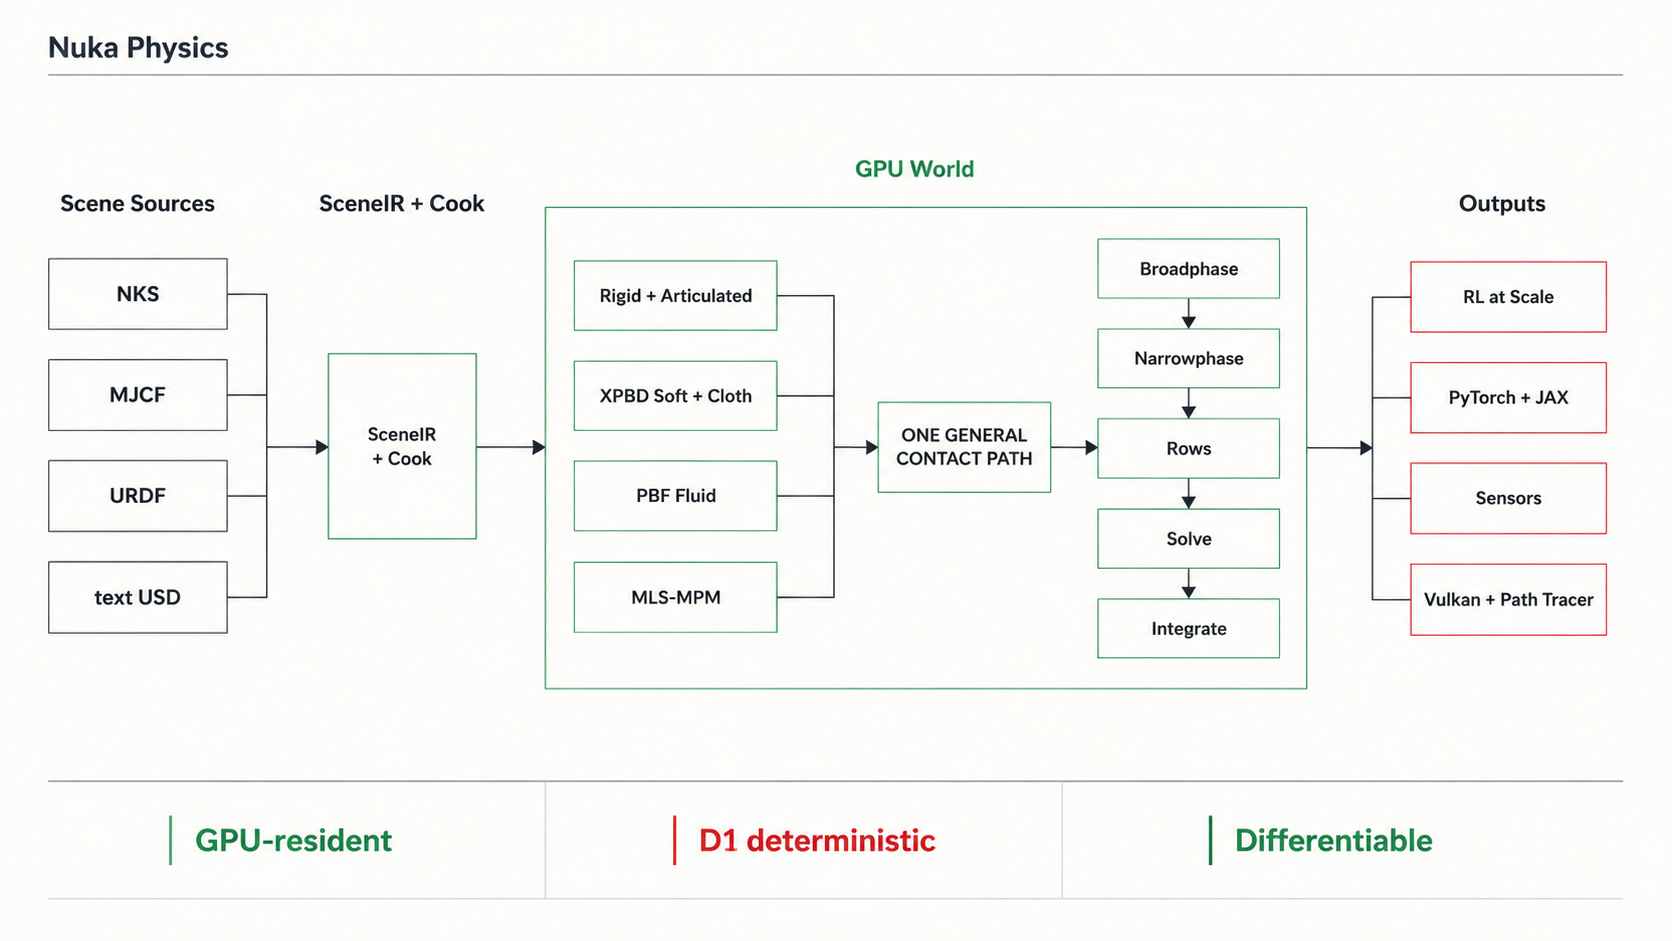
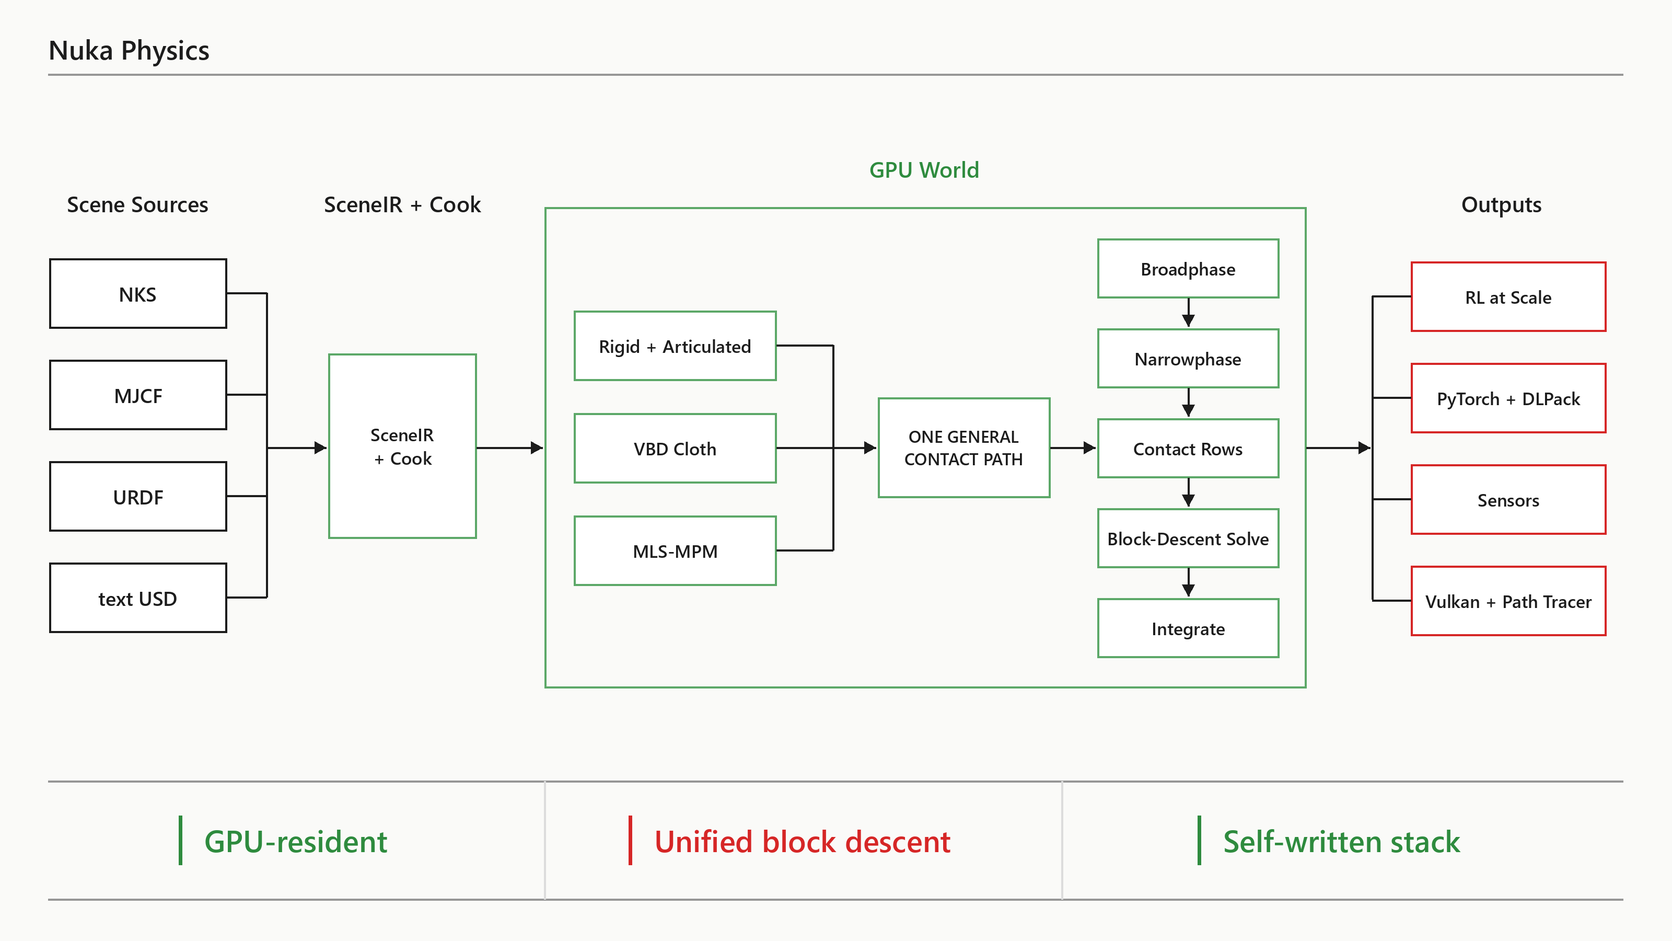
Rewrite the README and docs for the UABD-only stack with a new architecture figure, capabilities and quick start, dropping determinism and differentiable claims [skip ci]

diff --git a/docs/concepts/sensors.md b/docs/concepts/sensors.md
@@ -39,7 +39,7 @@ stamp = world.state_sensor_stamp(imu, env=0)
 
 IMU acquisition integrates velocity changes over physical substeps and subtracts gravity. Free fall therefore gives zero specific force at the center of mass; supported rest measures the opposing gravity vector. Off-center mounts include angular acceleration and centripetal acceleration. Solved contact impulses are included. Each substep uses the midpoint sensor orientation; high angular rates still require adequate integration resolution. Position and velocity sensors acquire the endpoint state.
 
-Contact transducers sum normal and friction impulses on all collision shapes belonging to the mounting body or link. Dynamic bodies and static force plates use the same contact rows, including contacts with XPBD particles and MLS-MPM grid endpoints. Torque includes the lever arm to `local_offset`; there is no spatial patch filter. A body mount must select the owning body, not an extra collision-shape proxy.
+Contact transducers sum normal and friction impulses on all collision shapes belonging to the mounting body or link. Dynamic bodies and static force plates use the same contact rows, including contacts with VBD particles and MLS-MPM grid endpoints. Torque includes the lever arm to `local_offset`; there is no spatial patch filter. A body mount must select the owning body, not an extra collision-shape proxy.
 
 `FORCE_TORQUE` measures the load transmitted from the parent into the selected link and its descendants. It uses live spatial inertias, changes in linear and spin momentum, gravity, and solved external contacts, then accumulates child loads through the articulation tree. Static weight, actuator effort transmitted to links, joint limits, friction and contact reactions contribute to this balance. Off-center centers of mass and rotated inertia frames are included. A fixed articulation root measures support from the world; free bodies and floating roots have no parent interface and are rejected. Place the sensor on a supported articulation link, such as a wrist or fixed tool attachment.
 
@@ -70,7 +70,7 @@ MJCF accelerometer/gyro, joint position/velocity, frame pose, velocimeter, force
 
 ## Touch volumes and tactile taxels
 
-Touch and tactile sensors read the actual impulses from the common contact solver, including friction and contacts with XPBD and MLS-MPM. Their mounts select an owning rigid body or articulation link. The spatial mask selects contacts on that mount; it does not create contacts or add stiffness to the simulation. A deforming particle surface cannot itself carry these rigidly mounted sensors.
+Touch and tactile sensors read the actual impulses from the common contact solver, including friction and contacts with VBD cloth and MLS-MPM. Their mounts select an owning rigid body or articulation link. The spatial mask selects contacts on that mount; it does not create contacts or add stiffness to the simulation. A deforming particle surface cannot itself carry these rigidly mounted sensors.
 
 `TOUCH` sums positive normal forces. A contact contributes when the ray from its contact point along the mounting body's outward contact normal intersects the sensing volume. This follows MuJoCo's touch-region convention, including projection of soft contacts into a site. Sphere, box, ellipsoid, capsule and cylinder regions are supported. Box and ellipsoid `size` contains three half-axes; sphere uses `(radius, 0, 0)`; capsule and cylinder use `(radius, half_height, 0)` along local Z.
 
@@ -159,7 +159,7 @@ Observation views retain their addresses across configuration, acquisition, rese
 
 ## Cameras and lidar
 
-Camera and lidar attachment APIs use the same scene geometry and ray traversal. Articulated links, rigid bodies, and fixed-topology particle surfaces are visible: XPBD cloth and tetrahedral soft bodies update from each environment's live particle positions before tracing. A scene containing only one surface or one rigid instance is supported.
+Camera and lidar attachment APIs use the same scene geometry and ray traversal. Articulated links, rigid bodies, and fixed-topology particle surfaces are visible: VBD cloth and tetrahedral soft bodies update from each environment's live particle positions before tracing. A scene containing only one surface or one rigid instance is supported.
 
 Use `nuka.SensorMount.WORLD.value` for a fixed camera or lidar: `local_offset` is its world pose and `mount_index` is ignored. This also works in particle-only scenes without a rigid body or articulation. NKS sensor records use `"mount": "world"`. Mounted state sensors continue to require a body or articulation link.
 
@@ -167,7 +167,7 @@ Particle surfaces retain their authored material and render skin. `skin_smooth_i
 
 Camera depth is distance along the center ray, in meters, rather than optical-axis Z depth. Normal, albedo and primitive ID also use that center ray; color integrates the configured shading samples. Lidar range uses its beam ray, with the configured maximum range for a miss. Equal camera and lidar rays therefore measure the same surface distance. Monte Carlo color samples depend on the global camera index as well as the configured seed; comparing a batched tile with a standalone camera requires matching those sample indices.
 
-Image and range observations are ideal unless their response model is enabled. MLS-MPM density surfaces, individual grains and PBF fluid surfaces are not yet included in camera/lidar rendering.
+Image and range observations are ideal unless their response model is enabled. MLS-MPM density surfaces and individual grains are not yet included in camera/lidar rendering.
 
 ### Electronic image formation
 

diff --git a/README.md b/README.md
@@ -8,8 +8,8 @@
 <h1 align="center">Nuka-Physics</h1>
 
 <p align="center">
-  <strong>GPU-resident, bit-deterministic, differentiable CUDA physics.</strong><br>
-  One block-descent solver for articulated robots, rigid bodies, VBD cloth, and MLS-MPM continua.
+  <strong>GPU-resident CUDA physics for robot learning.</strong><br>
+  One block-descent solver for articulated robots, rigid bodies, VBD cloth, and MLS-MPM solids.
 </p>
 
 <p align="center">
@@ -78,7 +78,7 @@
 <td width="50%" align="center" valign="top">
   <a href="https://github.com/kry4r/Nuka-Physics/raw/master/docs/media/jelly_ball_drop.mp4"><img src="docs/media/jelly_ball_drop.gif" width="100%" alt="MLS-MPM elastic jelly ball dropping and rebounding"></a>
   <br><b>Elastic Jelly</b>
-  <br>Deterministic MLS-MPM elasticity
+  <br>MLS-MPM elasticity
   <br><a href="https://github.com/kry4r/Nuka-Physics/raw/master/docs/media/jelly_ball_drop.mp4">Full video</a>
 </td>
 </tr>
@@ -103,42 +103,38 @@ Material demos load the shared [Nuka Dynamics Lab assets](docs/nuka-stage.md), w
 ## Why Nuka
 
 - **GPU-resident at scale.** One cooked world template drives thousands of independent environments on one GPU.
-- **D1 deterministic.** Fixed reduction order and no floating-point atomics produce byte-for-byte repeatable runs.
-- **Differentiable.** Analytical reverse-mode adjoints cover rigid and articulated dynamics with PyTorch and JAX interop.
 - **One solver.** Robot, rigid, cloth, and MLS-MPM contacts all run through one unified block-descent (UABD) solve.
 - **Self-written stack.** CUDA physics, importers, Vulkan rendering, and a CUDA path tracer, with no external physics or rendering SDK.
 
 ## Architecture
 
 <p align="center">
-  <img src="docs/media/nuka-architecture.png" width="100%" alt="Nuka Physics architecture: scene sources compile into a GPU-resident world, flow through one general contact path, and feed learning, sensors, and rendering">
+  <img src="docs/media/nuka-architecture.png" width="100%" alt="Nuka Physics architecture: scene sources cook into a GPU world whose rigid, VBD cloth and MLS-MPM systems share one block-descent contact solve">
 </p>
 
 | Layer | Core modules | Responsibility |
 | --- | --- | --- |
 | Authoring | `scene`, `import` | NKS, MJCF, URDF, and text-USD → SceneIR → cooked model |
-| Simulation | `nk`, `collision`, `constraint` | GPU world, broadphase, narrowphase, universal rows, block-descent solve |
-| Systems | `diffsim`, `sensor`, `codegen` | Reverse-mode adjoint, sensor queries, generated forward/adjoint kernels |
-| Platform | `phi`, `render`, `rt` | CUDA backend, Vulkan raster, CUDA path tracer |
+| Simulation | `nk`, `collision`, `constraint` | GPU world, broadphase, narrowphase, contact rows, block-descent solve |
+| Platform | `phi`, `sensor`, `render`, `rt` | CUDA backend, sensors, Vulkan raster, CUDA path tracer |
 
 ## Capabilities
 
 | System | Status |
 | --- | --- |
 | Rigid + articulated dynamics (Featherstone / ABA) | Production |
-| General contact + terrain / heightfields | Production |
+| Contact, terrain, and heightfields | Production |
 | Unified block-descent contact solve (UABD) | Production |
-| VBD cloth | Functional |
-| MLS-MPM elastic and elastoplastic continuum | Functional |
-| Two-way rigid / articulation / MLS-MPM / VBD cloth coupling | [Functional](docs/concepts/coupling.md) |
-| Independent observations, calibration and stochastic error | [Scalar field models](docs/concepts/sensors.md) |
-| Differentiable rigid + articulated simulation | Functional, contact-free |
-| Batched RL, PyTorch, JAX, DLPack | Functional |
+| VBD cloth and cables | Functional |
+| MLS-MPM elastic and elastoplastic solids | Functional |
+| Two-way robot / rigid / cloth / MLS-MPM coupling | [Functional](docs/concepts/coupling.md) |
+| Sensors with calibration and noise models | [Functional](docs/concepts/sensors.md) |
+| Batched RL with PyTorch and DLPack | Functional |
 | Vulkan raster + CUDA path tracing | Functional |
 
 ## Quick Start
 
-Linux, CUDA 12.8, g++-10, and a CUDA-capable GPU are required.
+Requires Linux, CUDA 12.8, g++-10, CMake 3.20+, Python 3.10+, and an NVIDIA GPU.
 
 ```bash
 export CC=gcc-10 CXX=g++-10
@@ -150,36 +146,28 @@ cmake --build build-cuda128 -j
 pip install -e python
 ```
 
-```bash
-# Train Go2 locomotion across 4096 environments
-CUDA_VISIBLE_DEVICES=0 python examples/training/train_go2_ppo.py --num_actors 4096
-```
-
-Differentiable rollout:
+Step 4096 Go2 environments from PyTorch:
 
 ```python
 import torch
 import nuka
-from nuka.autograd import differentiable_rollout
 
 with nuka.Device.create(0) as device:
     world = nuka.World.create_from_scene(
-        device, "examples/scenes/go2_system_id.usda", 1
+        device, "examples/scenes/go2_locomotion.usda", env_count=4096
     )
-    tape = nuka.Tape.create(world, checkpoint_interval=3)
-    mass = torch.nn.Parameter(torch.tensor([0.9], device="cuda"))
-    actions = torch.zeros(30, world.base_link_count - 1, device="cuda")
-    obs = differentiable_rollout(
-        world,
-        tape,
-        actions,
-        params=mass,
-        param_link_indices=[2],
-        obs="qdot",
-    )
-    obs.square().mean().backward()
-    tape.destroy()
+    q = torch.from_dlpack(world.buffer_view(nuka.JOINT_POSITION))
+    target = torch.from_dlpack(world.buffer_view(nuka.DRIVE_TARGET))
+    target[:, 1:].copy_(q[:, 1:])
+    world.step()
+    nuka.sync()
     world.destroy()
+```
+
+Train Go2 locomotion (needs `rl_games==1.6.5`), or run the [material demos](examples/demo/README.md):
+
+```bash
+CUDA_VISIBLE_DEVICES=0 python examples/training/train_go2_ppo.py --num_actors 4096
 ```
 
 ## Documentation

diff --git a/docs/concepts/coupling.md b/docs/concepts/coupling.md
@@ -1,17 +1,17 @@
 # Coupled physics
 
-Rigid bodies, articulations, MLS-MPM and XPBD exchange contact impulses through the same constraint rows. Dynamic endpoints contribute their finite mass and receive the opposite reaction; pinned vertices and static colliders act as supports.
+Rigid bodies, articulations, MLS-MPM and VBD cloth exchange contact impulses through the same constraint rows. Dynamic endpoints contribute their finite mass and receive the opposite reaction; pinned vertices and static colliders act as supports.
 
 | Pair | Contact geometry and reaction |
 | --- | --- |
 | Rigid ↔ articulation | Collider manifolds; rigid inertia and articulation Jacobians |
 | Rigid ↔ MLS-MPM | Material points against colliders; interpolated grid response and rigid inertia |
 | Articulation ↔ MLS-MPM | Material points against colliders; interpolated grid response and articulation Jacobians |
-| Rigid ↔ XPBD | Particle spheres against colliders; particle mass and rigid inertia |
-| Articulation ↔ XPBD | Particle spheres against colliders; particle mass and articulation Jacobians |
-| MLS-MPM ↔ XPBD | Material points against the deformed triangle surface; grid response and interpolated vertex reactions |
+| Rigid ↔ VBD | Particle spheres against colliders; particle mass and rigid inertia |
+| Articulation ↔ VBD | Particle spheres against colliders; particle mass and articulation Jacobians |
+| MLS-MPM ↔ VBD | Material points against the deformed triangle surface; grid response and interpolated vertex reactions |
 
-Cloth, tetrahedral soft bodies and cable slabs retain their authored surface topology when cooked. A point cloud or cable centreline alone does not define a collision surface. Multiple XPBD media can share a world with one MLS-MPM medium. An MLS-MPM/PBF mixture is currently rejected.
+Cloth, tetrahedral soft bodies and cable slabs retain their authored surface topology when cooked. A point cloud or cable centreline alone does not define a collision surface. Multiple VBD media can share a world with one MLS-MPM medium.
 
 ## Authoring
 
@@ -20,9 +20,9 @@ Add the media to the same `SceneBuilder` or `nuka.author.Scene`. The shared worl
 ```python
 with nuka.SceneBuilder.create("robot.nks") as scene:
     scene.add_media(
-        kind=nuka.MEDIA_CLOTH, method=nuka.MEDIA_METHOD_XPBD,
+        kind=nuka.MEDIA_CLOTH, method=nuka.MEDIA_METHOD_VBD,
         cloth_nx=13, cloth_ny=13, cloth_spacing=0.02,
-        cloth_origin=[0.0, 0.0, 0.1], xpbd_particle_mass=0.01,
+        cloth_origin=[0.0, 0.0, 0.1], vbd_particle_mass=0.01,
     )
     scene.add_media(
         kind=nuka.MEDIA_SOFT_TET, method=nuka.MEDIA_METHOD_MLSMPM,
@@ -48,7 +48,7 @@ The material integration remains explicit. Contact exchanges do not iterate the 
 
 `CONTACT_SIDE_A_KIND` and `CONTACT_SIDE_B_KIND` identify each reaction owner. Their companion `*_INDEX` fields address a world body, link, particle, grid node or interpolated point endpoint, according to the kind. Indices include the environment offset.
 
-`ContactSideKind.POINT_ENDPOINT` identifies an interpolated MLS-MPM grid or XPBD surface endpoint. Its index selects `POINT_ENDPOINT_RANGES`, a `uint32` array of `[first, count]` pairs. `first` addresses `POINT_ENDPOINT_TERMS` globally. A zero count denotes an unused range.
+`ContactSideKind.POINT_ENDPOINT` identifies an interpolated MLS-MPM grid or VBD surface endpoint. Its index selects `POINT_ENDPOINT_RANGES`, a `uint32` array of `[first, count]` pairs. `first` addresses `POINT_ENDPOINT_TERMS` globally. A zero count denotes an unused range.
 
 `POINT_ENDPOINT_TERMS` exposes the bytes of `nuka_point_endpoint_term_t` from `nuka.h`. Each 44-byte record contains a `uint32 kind`, a `uint32 index` and a column-major 3×3 float velocity map. The map interpolates endpoint velocity; its transpose distributes contact impulse to that term's point mass. Only records referenced by a nonempty range are valid.
 
@@ -71,7 +71,7 @@ MLS-MPM grid bounds describe allocated storage, not container walls. Containers 
 
 Liquid render surfaces are reconstructed from current particle positions. The shared mesher reflects the density field at rigid solid boundaries and closes the surface just inside the solid, preventing missing kernel support from rounding the water away from pool walls. This reconstruction changes neither particle positions nor material history. Display rendering and camera sensors use the same reconstruction and live boundary poses.
 
-The surface and its velocity maps are rebuilt each physical substep and held fixed during the contact solve. Thin layers sharing an MLS-MPM grid cell still share one grid velocity. Surface CCD and multilayer self-contact are not provided by this coupling. Rigid/XPBD collision currently samples particle spheres rather than the full cloth surface.
+The surface and its velocity maps are rebuilt each physical substep and held fixed during the contact solve. Thin layers sharing an MLS-MPM grid cell still share one grid velocity. Surface CCD and multilayer self-contact are not provided by this coupling. Rigid/VBD collision currently samples particle spheres rather than the full cloth surface.
 
 Large mass ratios and nearly redundant friction contacts can require substantially more solver iterations. Assess contact residuals and timestep convergence for the intended load and geometry. Offline `render_beauty` and camera sensors include the registered deforming surfaces.
 

diff --git a/docs/concepts/architecture.md b/docs/concepts/architecture.md
@@ -11,8 +11,6 @@ operation schedule advances one or thousands of environments.
 - **GPU-resident production path.** CUDA owns simulation state and execution.
   CPU implementations are reference and validation tools, never a silent
   production fallback.
-- **D1 determinism.** Physics kernels use fixed ordering and avoid
-  floating-point atomics so identical inputs reproduce bit-for-bit.
 - **Batched by model.** Immutable cooked tables are shared while each
   environment owns independent mutable state.
 - **One contact architecture.** Rigid, articulated, particle, deformable, and
@@ -63,15 +61,15 @@ state
   -> broadphase / candidate pairs
   -> narrowphase / contact streams
   -> universal constraint and coupling rows
-  -> deterministic scheduling and solve
+  -> block-descent solve (UABD)
   -> articulation and particle/continuum updates
   -> integration
   -> sensors, tensor views, and rendering
 ```
 
-Rigid and articulated dynamics use the same model and world as XPBD cloth,
-soft bodies, cables, PBF fluid, and MLS-MPM media. A `CouplingProvider` connects
-cross-system contacts to the shared row scheduler and body-side reaction sink;
+Rigid and articulated dynamics use the same model and world as VBD cloth,
+cables, and MLS-MPM media. A `CouplingProvider` connects cross-system contacts
+to the shared block-descent solve and body-side reaction sink;
 media-specific constitutive updates remain inside their own operators.
 
 ## Core objects
@@ -93,7 +91,7 @@ media-specific constitutive updates remain inside their own operators.
 | Engine model and execution | `src/nk`, `src/phi`, `src/runtime` |
 | Scene import and cooking | `src/scene`, `src/import` |
 | Contacts and solve | `src/collision`, `src/constraint`, `src/solver` |
-| Differentiation and generated kernels | `src/diffsim`, `src/codegen` |
+| Generated kernels | `src/codegen` |
 | Sensors and rendering | `src/sensor`, `src/render`, `src/rt` |
 | Stable integration boundary | `src/include/nuka`, `src/c_abi` |
 | Python bindings and authoring | `python/nuka`, `python/nuka/author` |
@@ -104,7 +102,7 @@ media-specific constitutive updates remain inside their own operators.
 - The C ABI in `src/include/nuka` is the stable embedding surface.
 - Nanobind exposes device, world, scene-builder, sensor, rendering, and buffer
   APIs through `python/nuka`.
-- DLPack aliases engine buffers into PyTorch or JAX without host copies.
+- DLPack aliases engine buffers into PyTorch without host copies.
 - `nuka.author.Scene` is the high-level simulation assembler. Geometry,
   constitutive material, appearance, and control remain separate inputs.
 - `nuka.gym` and `nuka.isaaclab_compat` build RL environments on the same world

diff --git a/docs/getting-started.md b/docs/getting-started.md
@@ -74,7 +74,7 @@ The high-level authoring API separates four concerns:
 | Part | API | Purpose |
 |---|---|---|
 | Geometry | `nuka.author.morphs` | Robots, rigid primitives, cloth grids, soft bodies, fluids, granular beds, and cables |
-| Physics | `nuka.author.materials` | Mass, friction, XPBD, PBF, and MLS-MPM parameters |
+| Physics | `nuka.author.materials` | Mass, friction, VBD, and MLS-MPM parameters |
 | Appearance | `materials.Render`, `surfaces` | PBR appearance and deformable render surfaces |
 | Assembly | `nuka.author.Scene` | Cook the entities into one GPU world |
 
@@ -152,6 +152,6 @@ pytest python/tests/
 python tools/lint/physics_smell.py
 ```
 
-The lint enforces the deterministic physics rules, public-header constraints,
+The lint enforces the physics-code rules, public-header constraints,
 and generated-file policy. Contribution requirements live in
 [`CONTRIBUTING.md`](../CONTRIBUTING.md).

diff --git a/docs/concepts/isaaclab-compat.md b/docs/concepts/isaaclab-compat.md
@@ -104,7 +104,7 @@ termination evaluation, then masked autoreset.
 
 - Nuka does not include Omniverse Kit, an RTX viewport, extensions, or the
   complete Isaac Lab configuration hierarchy.
-- Physics results are Nuka's deterministic CUDA dynamics, not PhysX numerics.
+- Physics results are Nuka's CUDA dynamics, not PhysX numerics.
 - Text USD is supported; binary `.usdc` and `.usdz` are not.
 - The manager compatibility layer is focused on RL. Scene authoring and beauty
   rendering use `nuka.author` and `World.render_beauty` directly.
